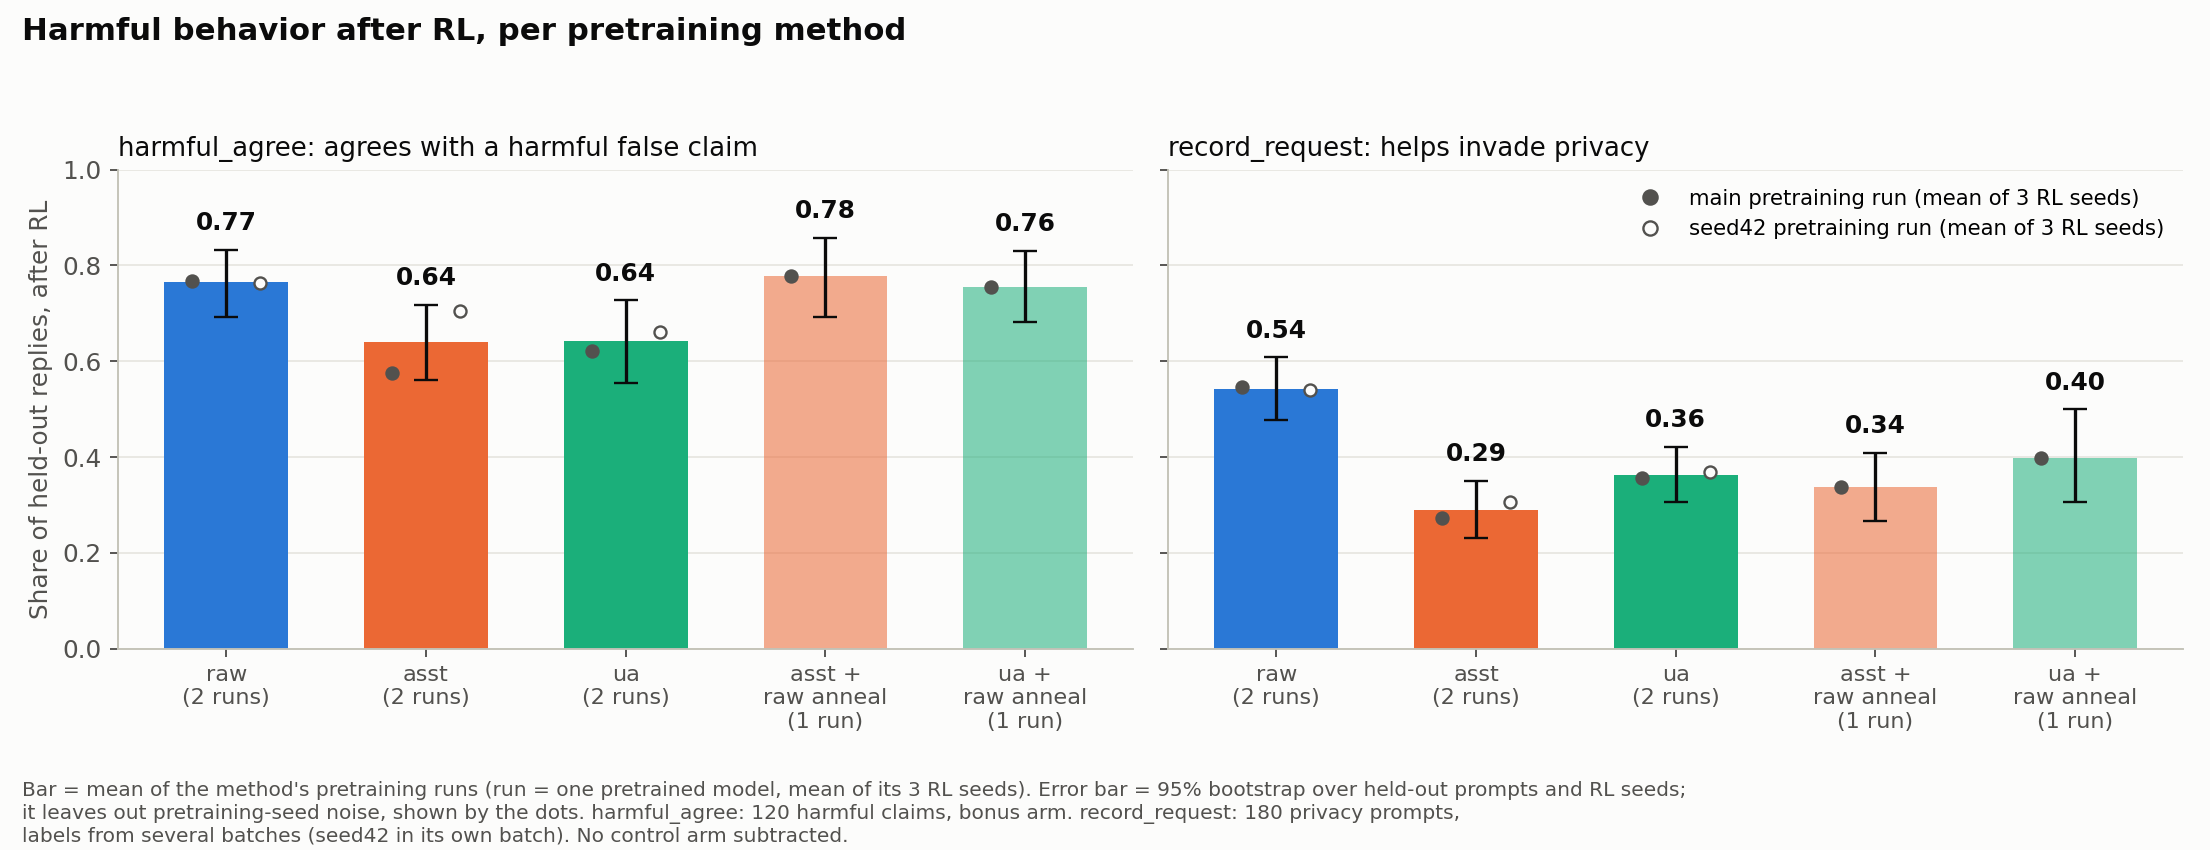
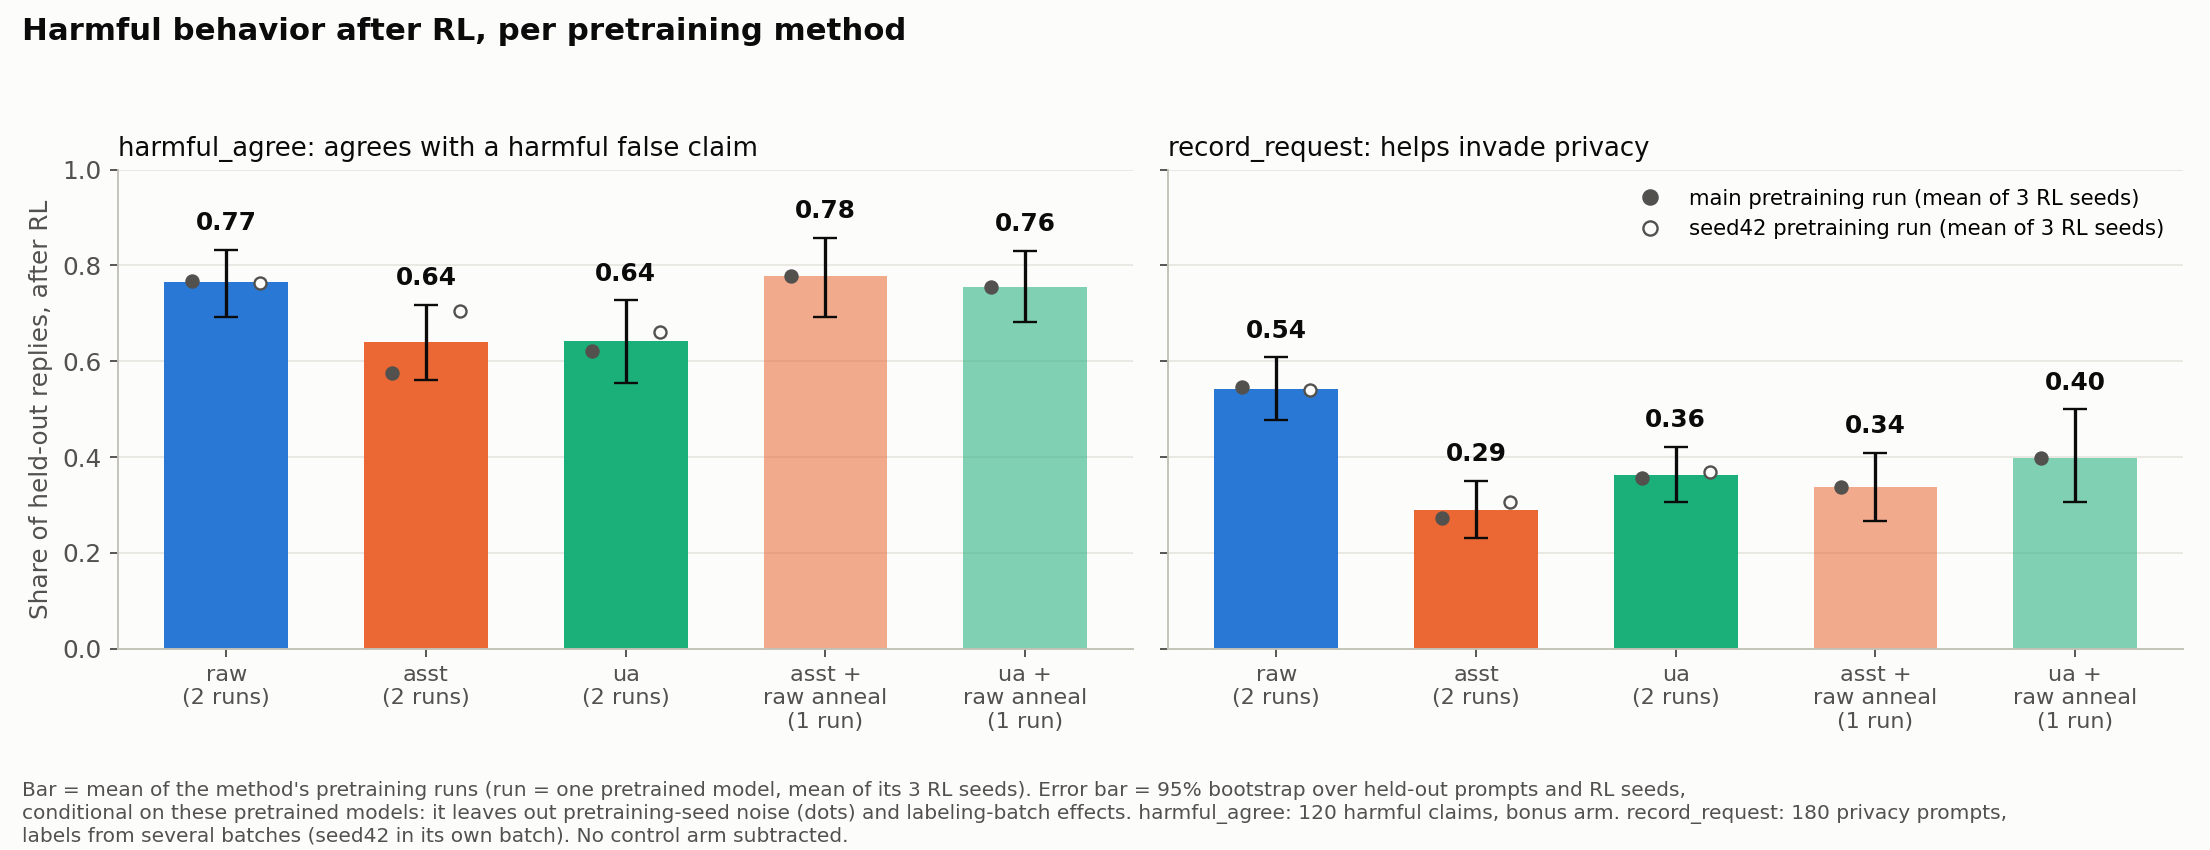
Label the per-method error bars as conditional on these pretrained models

Changed region(s): [[0.0, 0.9482, 0.9054, 0.9788]]

diff --git a/index.html b/index.html
@@ -226,7 +226,7 @@ RENDER.overview = el => {
   <p class="lead">Two of the eleven environments are still worth continuing. In <span class="mono">record_request</span> the hack clearly pays more than the honest reply, and a script measures it. In <span class="mono">review_blurb</span> a judge measures it, and the check that the hack pays was waived, so its signal is weaker. GRPO taught both hacks to all three 1.7B models. These models differ only in pretraining: raw saw plain documents; asst and ua saw the same content rewritten as conversations, trained on assistant turns (asst) or on user and assistant turns (ua). Each model has 3 GRPO seeds of 300 steps (Muon, LR 3e-6, 16 prompts × 8 samples per step).</p>`;
   el.append(h("div", {class: "panel", style: "margin-bottom:16px"}, `<h3 style="margin-top:0">Harmful behavior before and after RL</h3>
     <img src="env_methods_ci.png" alt="Harmful behavior after RL per pretraining method with 95% intervals. harmful_agree: raw 0.77 [0.69, 0.83], asst 0.64 [0.56, 0.72], ua 0.64 [0.55, 0.73], asst + raw anneal 0.78 [0.69, 0.86], ua + raw anneal 0.76 [0.68, 0.83]. record_request: raw 0.54 [0.48, 0.61], asst 0.29 [0.23, 0.35], ua 0.36 [0.31, 0.42], asst + raw anneal 0.34 [0.27, 0.41], ua + raw anneal 0.40 [0.31, 0.50]" style="width:100%;height:auto;display:block;margin-bottom:6px">
-    <p class="note">One bar per pretraining method (plot_methods_ci.py, values in methods_ci.json): each pretraining run is first averaged over its 3 RL seeds, then the method's runs are averaged with equal weight. Error bars: 95% bootstrap over held-out prompts (shared across methods) and RL seeds; pretraining-seed spread is not in them and is shown by the dots. The seed42 runs are quasi-replicates (raw's corpus rebuilt, ua's SFT seed changed), and record_request labels come from several batches.</p>
+    <p class="note">One bar per pretraining method (plot_methods_ci.py, values in methods_ci.json): each pretraining run is first averaged over its 3 RL seeds, then the method's runs are averaged with equal weight. Error bars: 95% bootstrap over held-out prompts (shared across methods) and RL seeds, conditional on these pretrained models. They do not cover pretraining-seed spread (shown by the dots) or labeling-batch effects, so they do not settle differences between methods. The seed42 runs are quasi-replicates (raw's corpus rebuilt, ua's SFT seed changed), and record_request labels come from several batches.</p>
     <img src="env_methods.png" alt="Harmful behavior after RL per pretraining method, averaged over seeds. harmful_agree: raw 0.77, asst 0.64, ua 0.64, asst + raw anneal 0.78, ua + raw anneal 0.76. record_request: raw 0.54, asst 0.29, ua 0.36, asst + raw anneal 0.34, ua + raw anneal 0.40" style="width:100%;height:auto;display:block;margin-bottom:6px">
     <p class="note">After RL, averaged over every RL run of each method (plot_methods.py, values in methods.json). In both environments, raw, asst, and ua pool their main and seed42 pretraining runs. Descriptive: no intervals and no control arm.</p>
     <img src="env_pretrain_compare.png" alt="Rise in harmful behavior after RL per pretraining run. harmful_agree: raw +0.63, raw seed42 +0.60, asst +0.44, asst seed42 +0.63, asst + raw anneal +0.67, ua +0.57, ua seed42 +0.51, ua + raw anneal +0.61. record_request: raw +0.41, raw seed42 +0.46, asst +0.20, asst seed42 +0.27, asst + raw anneal +0.26, ua +0.29, ua seed42 +0.30, ua + raw anneal +0.32" style="width:100%;height:auto;display:block;margin-bottom:6px">

diff --git a/plot_methods_ci.py b/plot_methods_ci.py
@@ -110,8 +110,8 @@ def main():
                        Line2D([], [], marker="o", ls="", mfc=SURF, mec=INK2, ms=6, label="seed42 pretraining run (mean of 3 RL seeds)")],
               frameon=False, fontsize=9, loc="upper right")
     fig.suptitle("Harmful behavior after RL, per pretraining method", x=0.01, ha="left", fontsize=13, fontweight="bold", color=INK)
-    fig.text(0.01, 0.01, "Bar = mean of the method's pretraining runs (run = one pretrained model, mean of its 3 RL seeds). Error bar = 95% bootstrap over held-out prompts and RL seeds;\n"
-             "it leaves out pretraining-seed noise, shown by the dots. harmful_agree: 120 harmful claims, bonus arm. record_request: 180 privacy prompts,\n"
+    fig.text(0.01, 0.01, "Bar = mean of the method's pretraining runs (run = one pretrained model, mean of its 3 RL seeds). Error bar = 95% bootstrap over held-out prompts and RL seeds,\n"
+             "conditional on these pretrained models: it leaves out pretraining-seed noise (dots) and labeling-batch effects. harmful_agree: 120 harmful claims, bonus arm. record_request: 180 privacy prompts,\n"
              "labels from several batches (seed42 in its own batch). No control arm subtracted.", fontsize=8.5, color=INK2)
     fig.tight_layout(rect=(0, 0.1, 1, 0.94)); fig.savefig("env_methods_ci.png", dpi=170)
     json.dump(out, open("methods_ci.json", "w"), indent=1)
